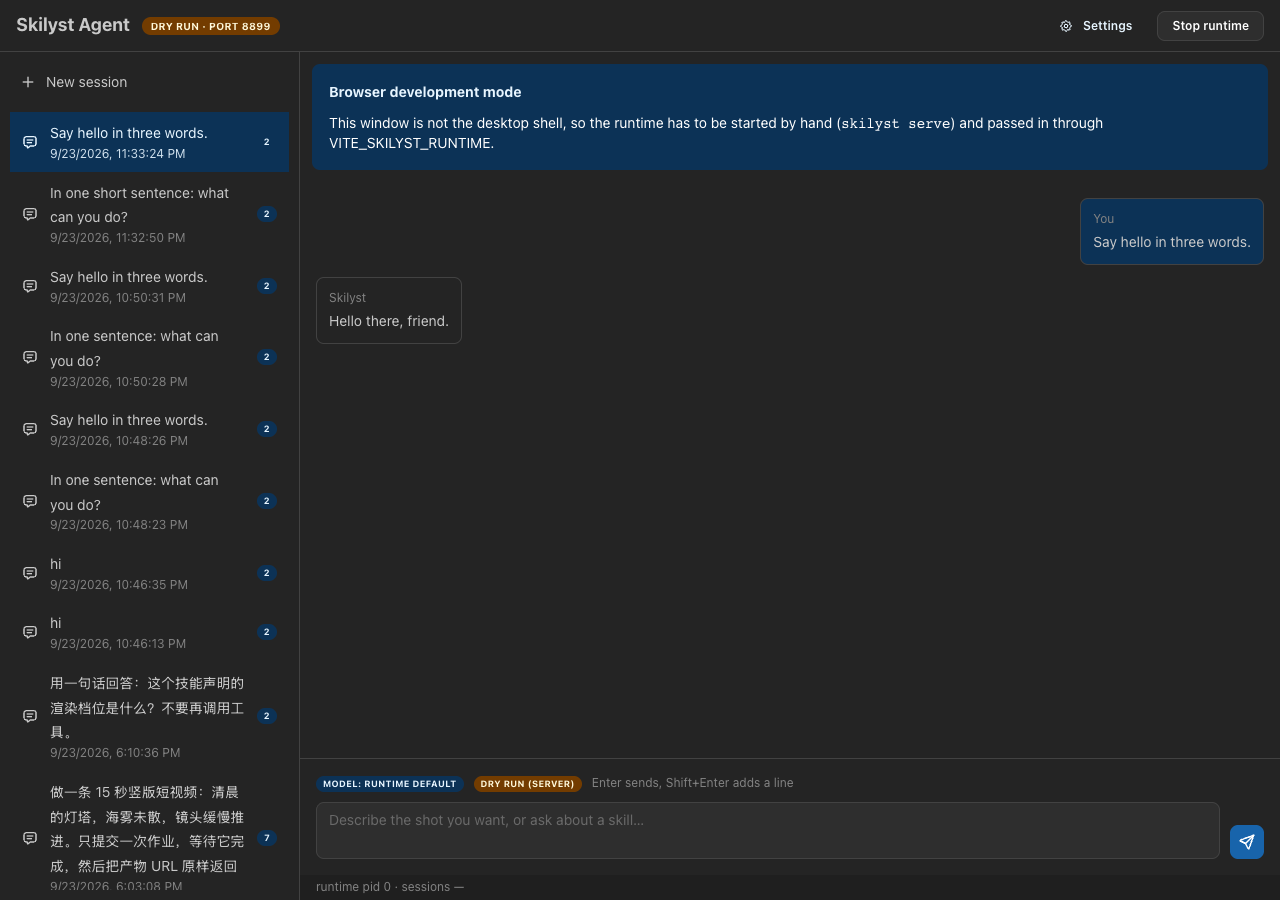
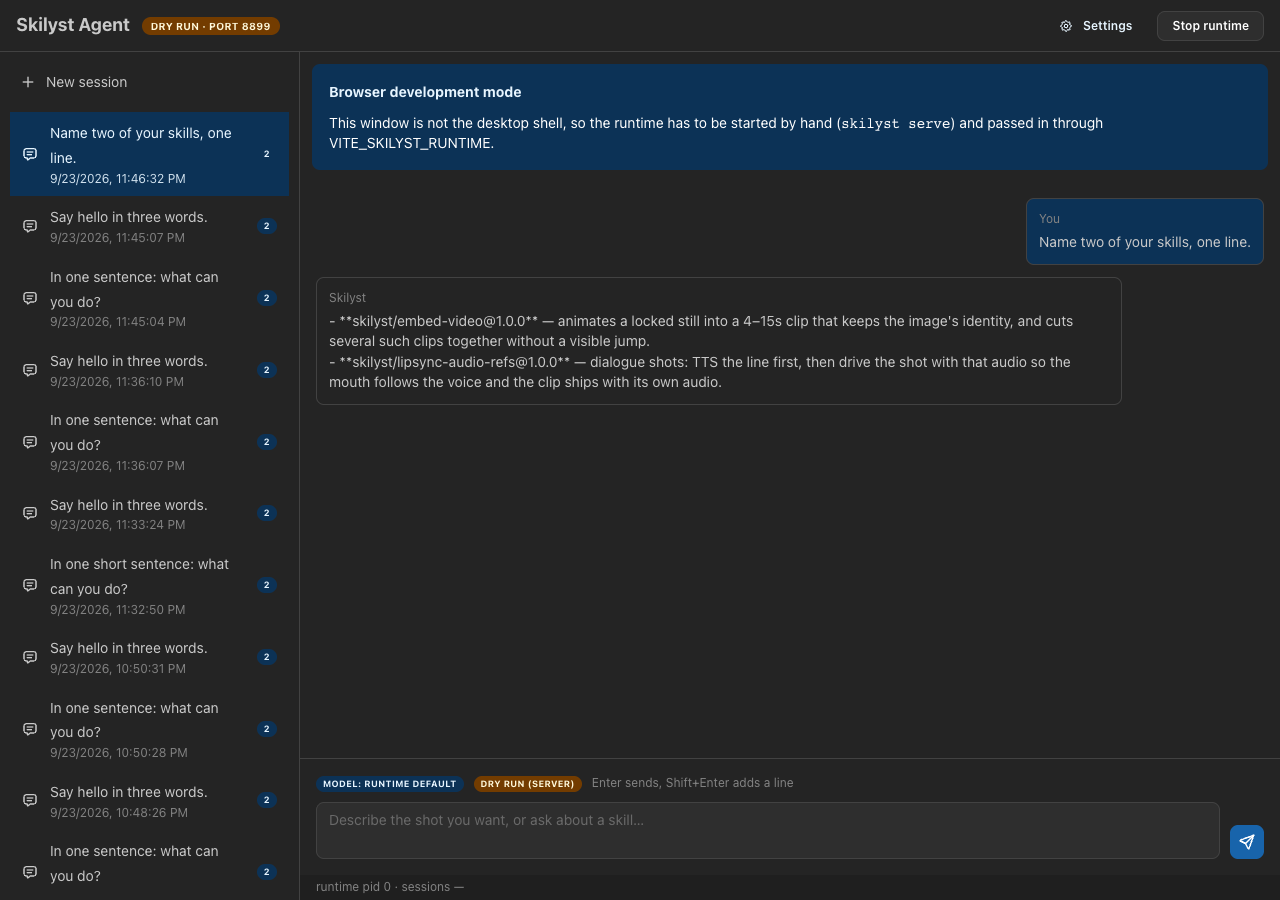
chore: rebase A2 onto the T4 bundle + fold the duplicate workflow into ci.yml
main moved while this branch was open (T4 official skills bundle v0.1, #2). Three
consequences, all handled here:

* One test of mine was wrong, not the runtime. `test_doctor_reports_integrity_without_
  needing_a_credential` asserted the doctor listed exactly `['skilyst/video-15s']`; the
  contract is "the doctor lists everything the bundle installed". The expected ids now
  come from the bundle's own `index.json`, so the bundle can grow without a test failing
  for the wrong reason. (This is what made both PR runs red.)
* `bundle-and-tests.yml` (from T4) ran the same unittest suite this branch's `ci.yml`
  already runs. Its bundle-integrity step (`tools/pack_official_bundle.py --check`) is now
  the first step of `ci.yml`'s `runtime-tests`, and the duplicate workflow is removed --
  one workflow, no doubled runs.
* `runtime-tests` now also runs on python 3.11, the floor `pyproject.toml` declares, next
  to 3.13 (what the desktop work runs on).

Evidence regenerated against the merged tree: evidence/a2-serve/ (doctor now lists the 5
bundled skills, all integrity-verified) and evidence/a2-desktop/ (window + orphan guard
PASS; the UI round trip answered with two real skills from the bundle).

Local: 140 tests OK, bundle check OK, gitleaks clean, cargo test/build OK, tsc+vite OK.

Refs pv-beehive-core#585 (M1, A2).

diff --git a/tests/test_serve.py b/tests/test_serve.py
@@ -44,6 +44,16 @@ ENV_KEYS = ("SKILYST_ENV_FILE", "SKILYST_DEV_PROFILE", "SKILYST_LLM_BASE_URL", "
             "BEEHIVE_PLATFORM_PASS", "BEEHIVE_PLATFORM_UID")
 
 
+def bundle_skill_ids() -> list[str]:
+    """The ids the official bundle installs, read from the bundle's own index.
+
+    Derived rather than hardcoded: the bundle is expected to grow, and a test that
+    fails every time it does is testing the test, not the runtime.
+    """
+    index = json.loads((BUNDLE / "index.json").read_text(encoding="utf-8"))
+    return sorted(row["skill_id"] for row in index["skills"])
+
+
 def chat_response(content="", tool_calls=None, finish_reason="stop", usage=None):
     message = {"role": "assistant", "content": content}
     if tool_calls:
@@ -221,7 +231,9 @@ class ConfigSurfaceTests(EnvIsolation):
         self.assertEqual(status, 200)
         self.assertTrue(body["data"]["runnable"])
         self.assertTrue(all(row["ok"] for row in body["data"]["integrity"]))
-        self.assertEqual([s["skill_id"] for s in body["data"]["skills"]], [OFFICIAL_SKILL])
+        listed = sorted(s["skill_id"] for s in body["data"]["skills"])
+        self.assertEqual(listed, bundle_skill_ids())          # everything the bundle installed
+        self.assertIn(OFFICIAL_SKILL, listed)
 
     def test_doctor_with_a_skill_needs_the_platform_credential(self):
         fx = ServeFixture(credentials=False)

diff --git a/docs/a2-verification.md b/docs/a2-verification.md
@@ -51,12 +51,15 @@ drives the same frontend (same bundle, same runtime contract) in Chrome and read
 transcript back out of the DOM. Evidence `ui-smoke.log`:
 
 ```
-app mounted; sessions in the sidebar before: 11
+app mounted; sessions in the sidebar before: 16
 runtime badge: DRY RUN · PORT 8899
 --- transcript (rendered) ---
-You Say hello in three words.
-Skilyst Hello there, friend.
-sessions in the sidebar after: 12
+You Name two of your skills, one line.
+Skilyst - **skilyst/embed-video@1.0.0** — animates a locked still into a 4–15s clip that keeps the
+image's identity, and cuts several such clips together without a visible jump. -
+**skilyst/lipsync-audio-refs@1.0.0** — dialogue shots: TTS the line first, then drive the shot with
+that audio so the mo…
+sessions in the sidebar after: 17
 error banners: 0
 page problems: none
 screenshot: ../evidence/a2-desktop/ui-window.png
@@ -64,7 +67,9 @@ screenshot: ../evidence/a2-desktop/ui-window.png
 
 The turn went out as `POST /message {"stream": true}`, the model text arrived as `delta` events
 and the summary as `done` (the same contract `tools/serve_smoke.sh` shows at the HTTP level in
-`evidence/a2-serve/message.sse`: 5 deltas + 1 done against the real model endpoint).
+`evidence/a2-serve/message.sse` against the real model endpoint). The answer naming two real
+skills from the official bundle is also a check on the runtime side of the chain: the skill index
+in the system prompt is what makes those ids available to the model.
 
 ### Line 3 -- process ownership
 
@@ -93,8 +98,9 @@ The guard took two attempts, both driven by real observation rather than reasoni
 
 | Suite | Command | Result |
 |---|---|---|
-| Runtime | `PYTHONPATH=src python3 -m unittest discover -s tests` | **122 tests, 4.7s, offline** (was 87) |
+| Runtime | `PYTHONPATH=src python3 -m unittest discover -s tests` | **140 tests, 7.3s, offline** (87 at A1; 122 from this branch + 18 from the T4 bundle) |
 | Shell | `cargo test --manifest-path desktop/src-tauri/Cargo.toml` | 3 tests (ready-line parsing: real line, log noise, live mode) |
+| Bundle | `python3 tools/pack_official_bundle.py --check` | `OK: 5 skills, digests and both manifests agree` |
 | Frontend | `cd desktop && npm run build` | `tsc` clean under `strict`, vite build 413KB js / 216KB css |
 
 `tests/test_serve.py` drives real HTTP over loopback against a real `RuntimeAPI`, store and
@@ -126,9 +132,22 @@ signals.
 
 `.github/workflows/ci.yml`, on push and pull request to `main`:
 
-* `runtime-tests` -- `PYTHONPATH=src python3 -m unittest discover -s tests`.
+* `runtime-tests` -- the official-bundle integrity check (`tools/pack_official_bundle.py --check`)
+  plus `python3 -m unittest discover -s tests`, on python 3.11 (the floor `pyproject.toml`
+  declares) and 3.13.
 * `secrets-scan` -- the gitleaks binary (8.24.3), `detect --source . --redact --exit-code 1`,
   full history; the same rule set as pv-beehive-core's PR gates. Local run over the branch:
   `no leaks found`.
 * `desktop-build` -- node 22 + rust stable + webview deps, `npm ci`, `npm run build`,
   `cargo test`, `cargo build`, `npx tauri build --no-bundle`.
+
+This is the only workflow: the T4 branch's `bundle-and-tests.yml` ran the same suite, so its
+bundle-integrity step was folded into `runtime-tests` and the duplicate workflow removed.
+
+### Cross-branch interaction worth recording
+
+The T4 bundle merged while this branch was open, and it broke one of these tests:
+`test_doctor_reports_integrity_without_needing_a_credential` asserted the doctor listed exactly
+`['skilyst/video-15s']`. The assertion was wrong, not the runtime -- the contract is "the doctor
+lists everything the bundle installed". It now derives the expected ids from the bundle's own
+`index.json`, so the bundle can grow without a test failing for the wrong reason.

diff --git a/README.md b/README.md
@@ -61,7 +61,7 @@ per-run job budget), a missing required node is blocking unless `--allow-fallbac
 skills are digest-verified on every load, and a job's artifact URL is HEAD-verified before the
 runtime reports success. See `docs/adr/0001-runtime-layout.md`.
 
-Tests: `PYTHONPATH=src python3 -m unittest discover -s tests` (117 tests, offline, <1s).
+Tests: `PYTHONPATH=src python3 -m unittest discover -s tests` (140 tests, offline, ~7s).
 
 ## Desktop shell (A2 — Tauri v2 + React/Mantine)
 
